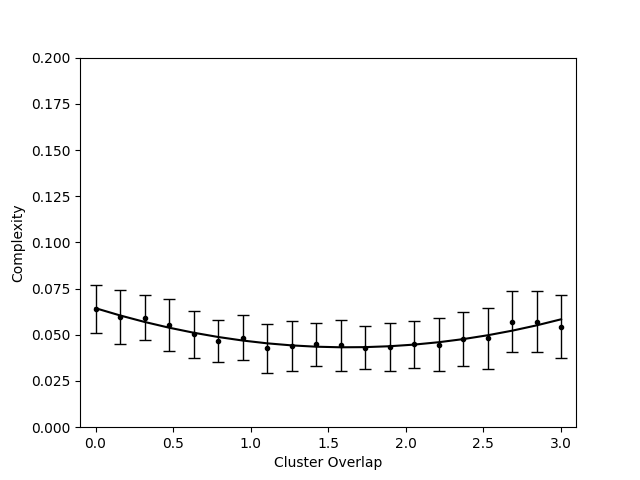
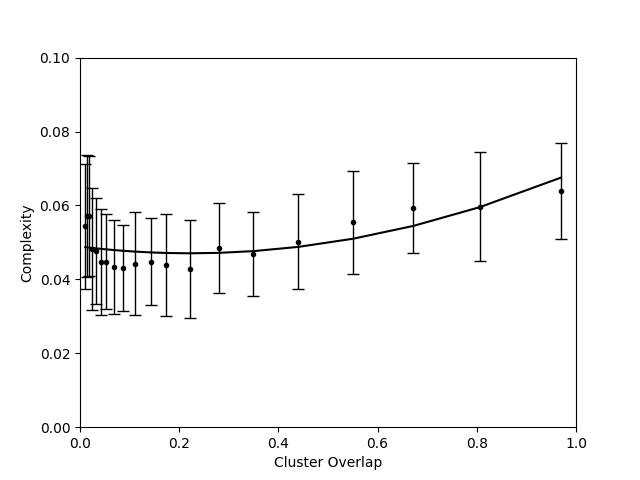
dist again ready

diff --git a/dev/complexity/distrbiution_exp/plot.py b/dev/complexity/distrbiution_exp/plot.py
@@ -15,7 +15,10 @@ distance = [0.0, 0.1581138830084191, 0.31622776601683805, 0.4743416490252568, 0.
 
 print(len(auc), len(mse), len(distance))
 
-x = distance
+# Change here for dif x-axis
+x = over
+#x = distance
+
 number_of_domains = len(auc)
 
 # Normalize everything to sum=1
@@ -45,8 +48,9 @@ plt.plot(x, p(x), color='black')
 #plt.scatter(x, over, color='red')
 
 # Formatting
-plt.xlim(-0.1, 3.1)
-plt.ylim(0, 0.2)
+#plt.xlim(-0.1, 3.1)
+plt.xlim(0.0, 1.0)
+plt.ylim(0, 0.1)
 plt.xlabel('Cluster Overlap')
 plt.ylabel('Complexity')
 

diff --git a/dev/complexity/distrbiution_exp/main.py b/dev/complexity/distrbiution_exp/main.py
@@ -95,8 +95,9 @@ def main():
 
     # Samples per point
     for j in range(points):
+        p = 0.75 + j/100
         # Generate data / package it
-        X_train, X_test, y_train, y_test, centers = gen_data(j/points)
+        X_train, X_test, y_train, y_test, centers = gen_data(p)
         data = [ X_train, X_test, y_train, y_test]
 
         # Gen random network params

diff --git a/dev/complexity/distrbiution_exp/model_fit.py b/dev/complexity/distrbiution_exp/model_fit.py
@@ -165,6 +165,7 @@ for name in results.keys():
 
     axs[int(c/5), c % 5].scatter(x_data, y_data)
     axs[int(c/5), c % 5].scatter(x_data, pred)
+    axs[int(c/5), c % 5].set_xlim(0.0, 1.0)
     axs[int(c/5), c % 5].set_xlabel('Accuracy')
     axs[int(c/5), c % 5].set_ylabel('log(TP)')
     axs[int(c/5), c % 5].set_title(round(name, 3))
